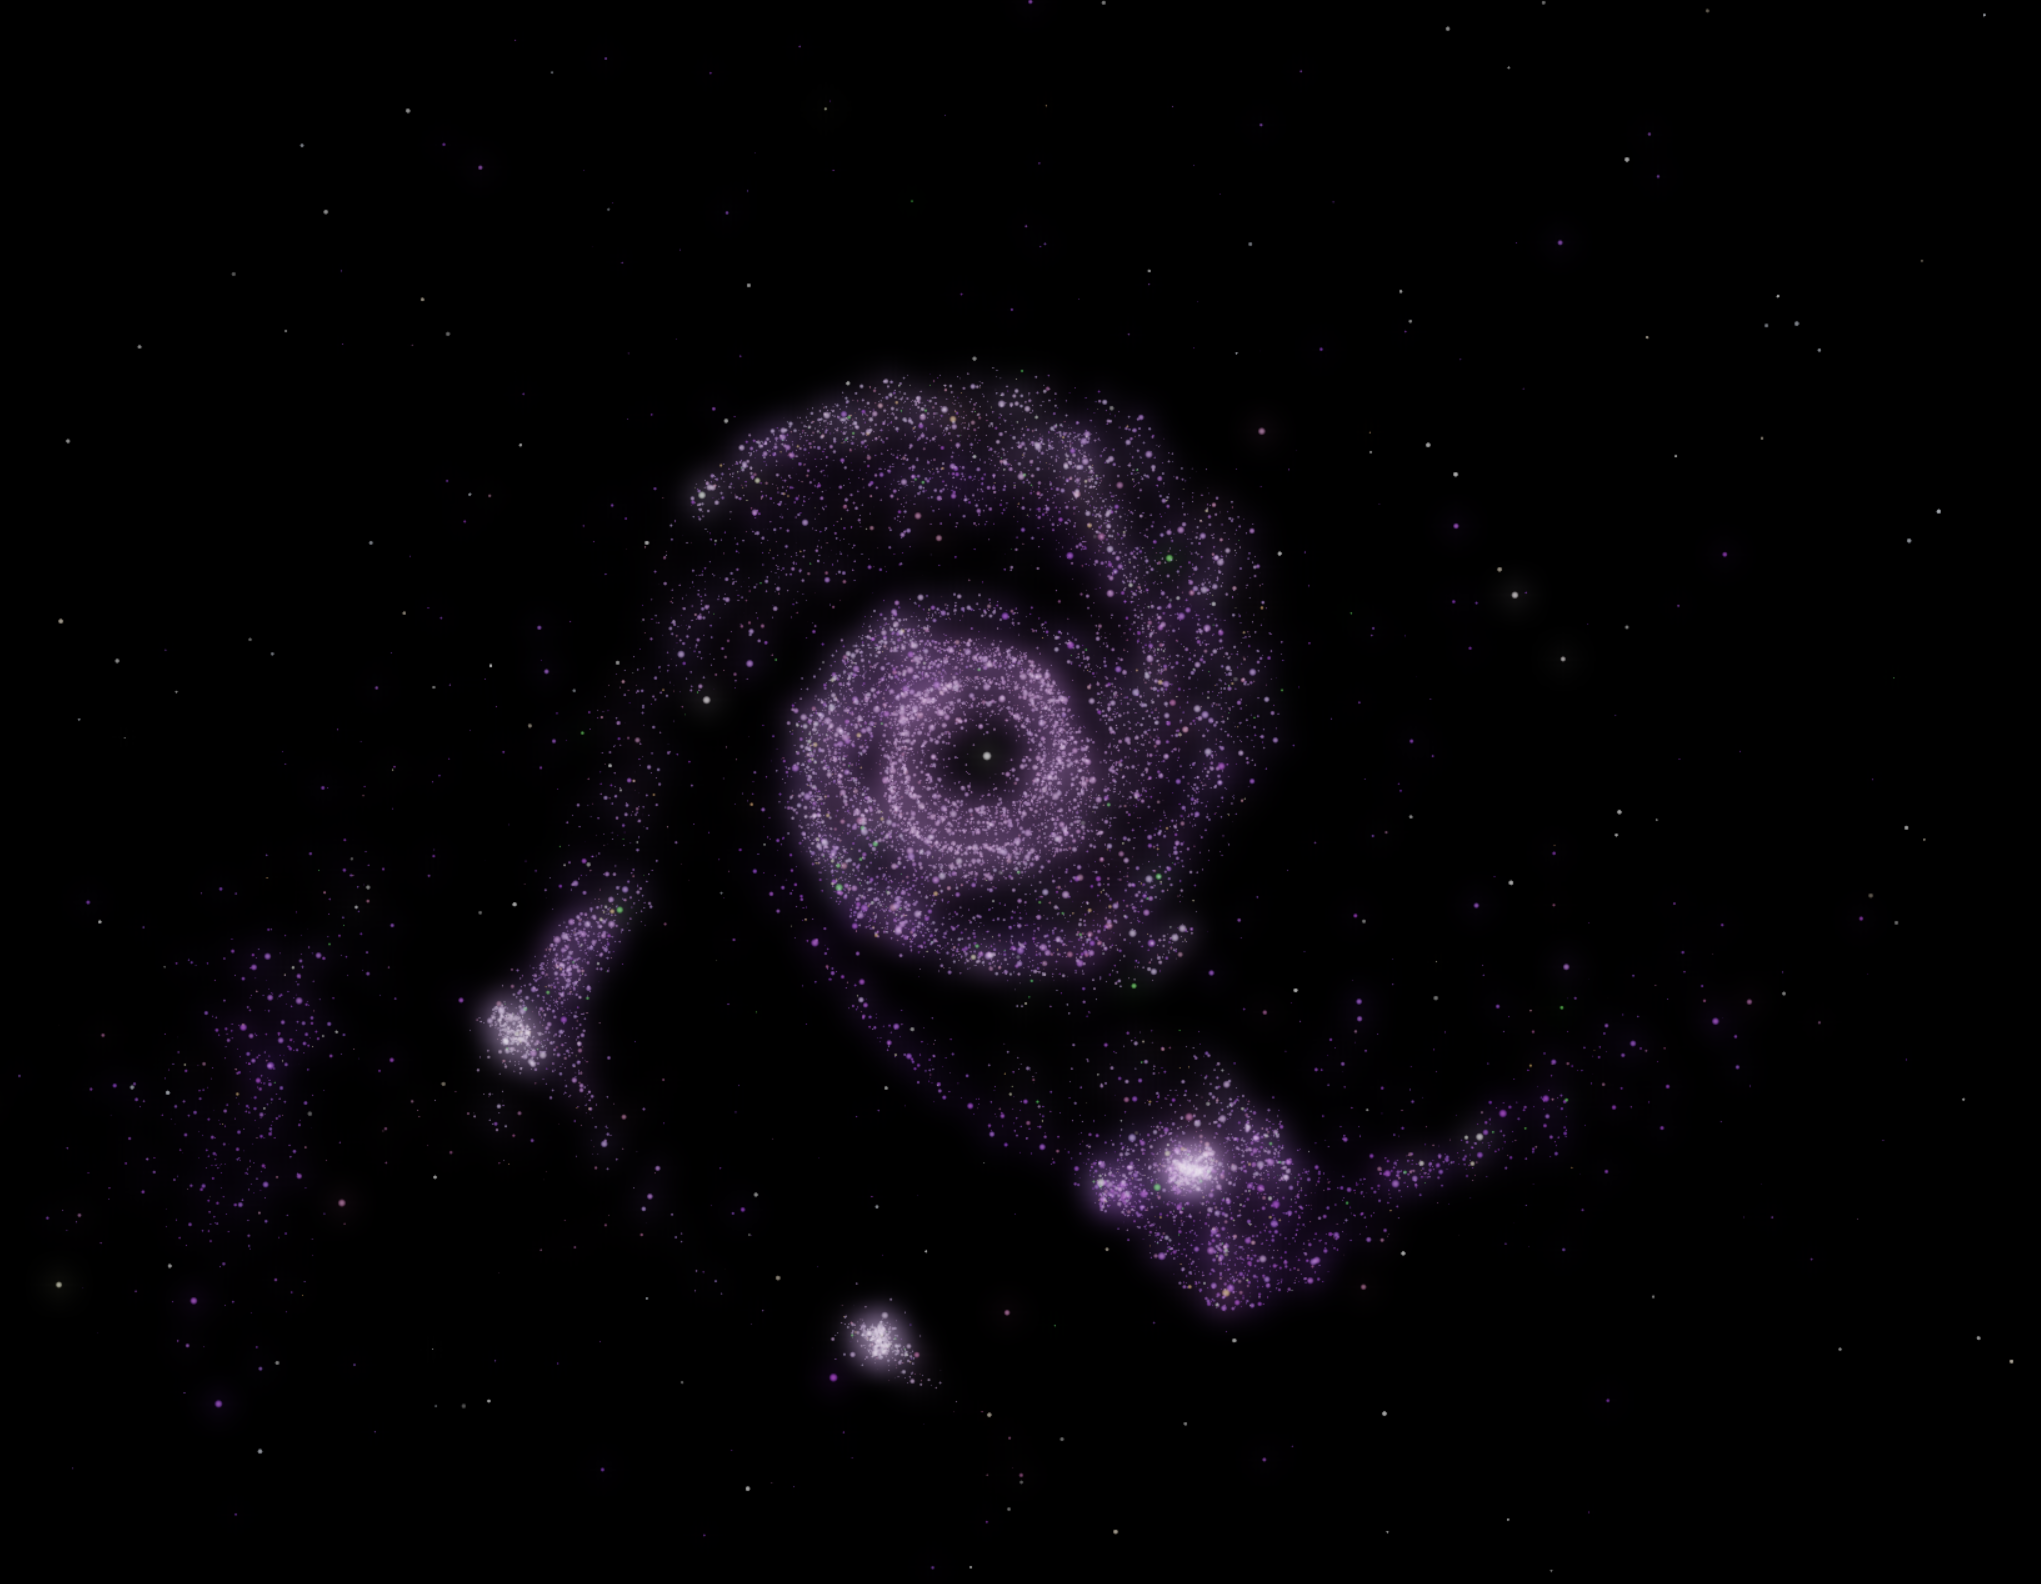
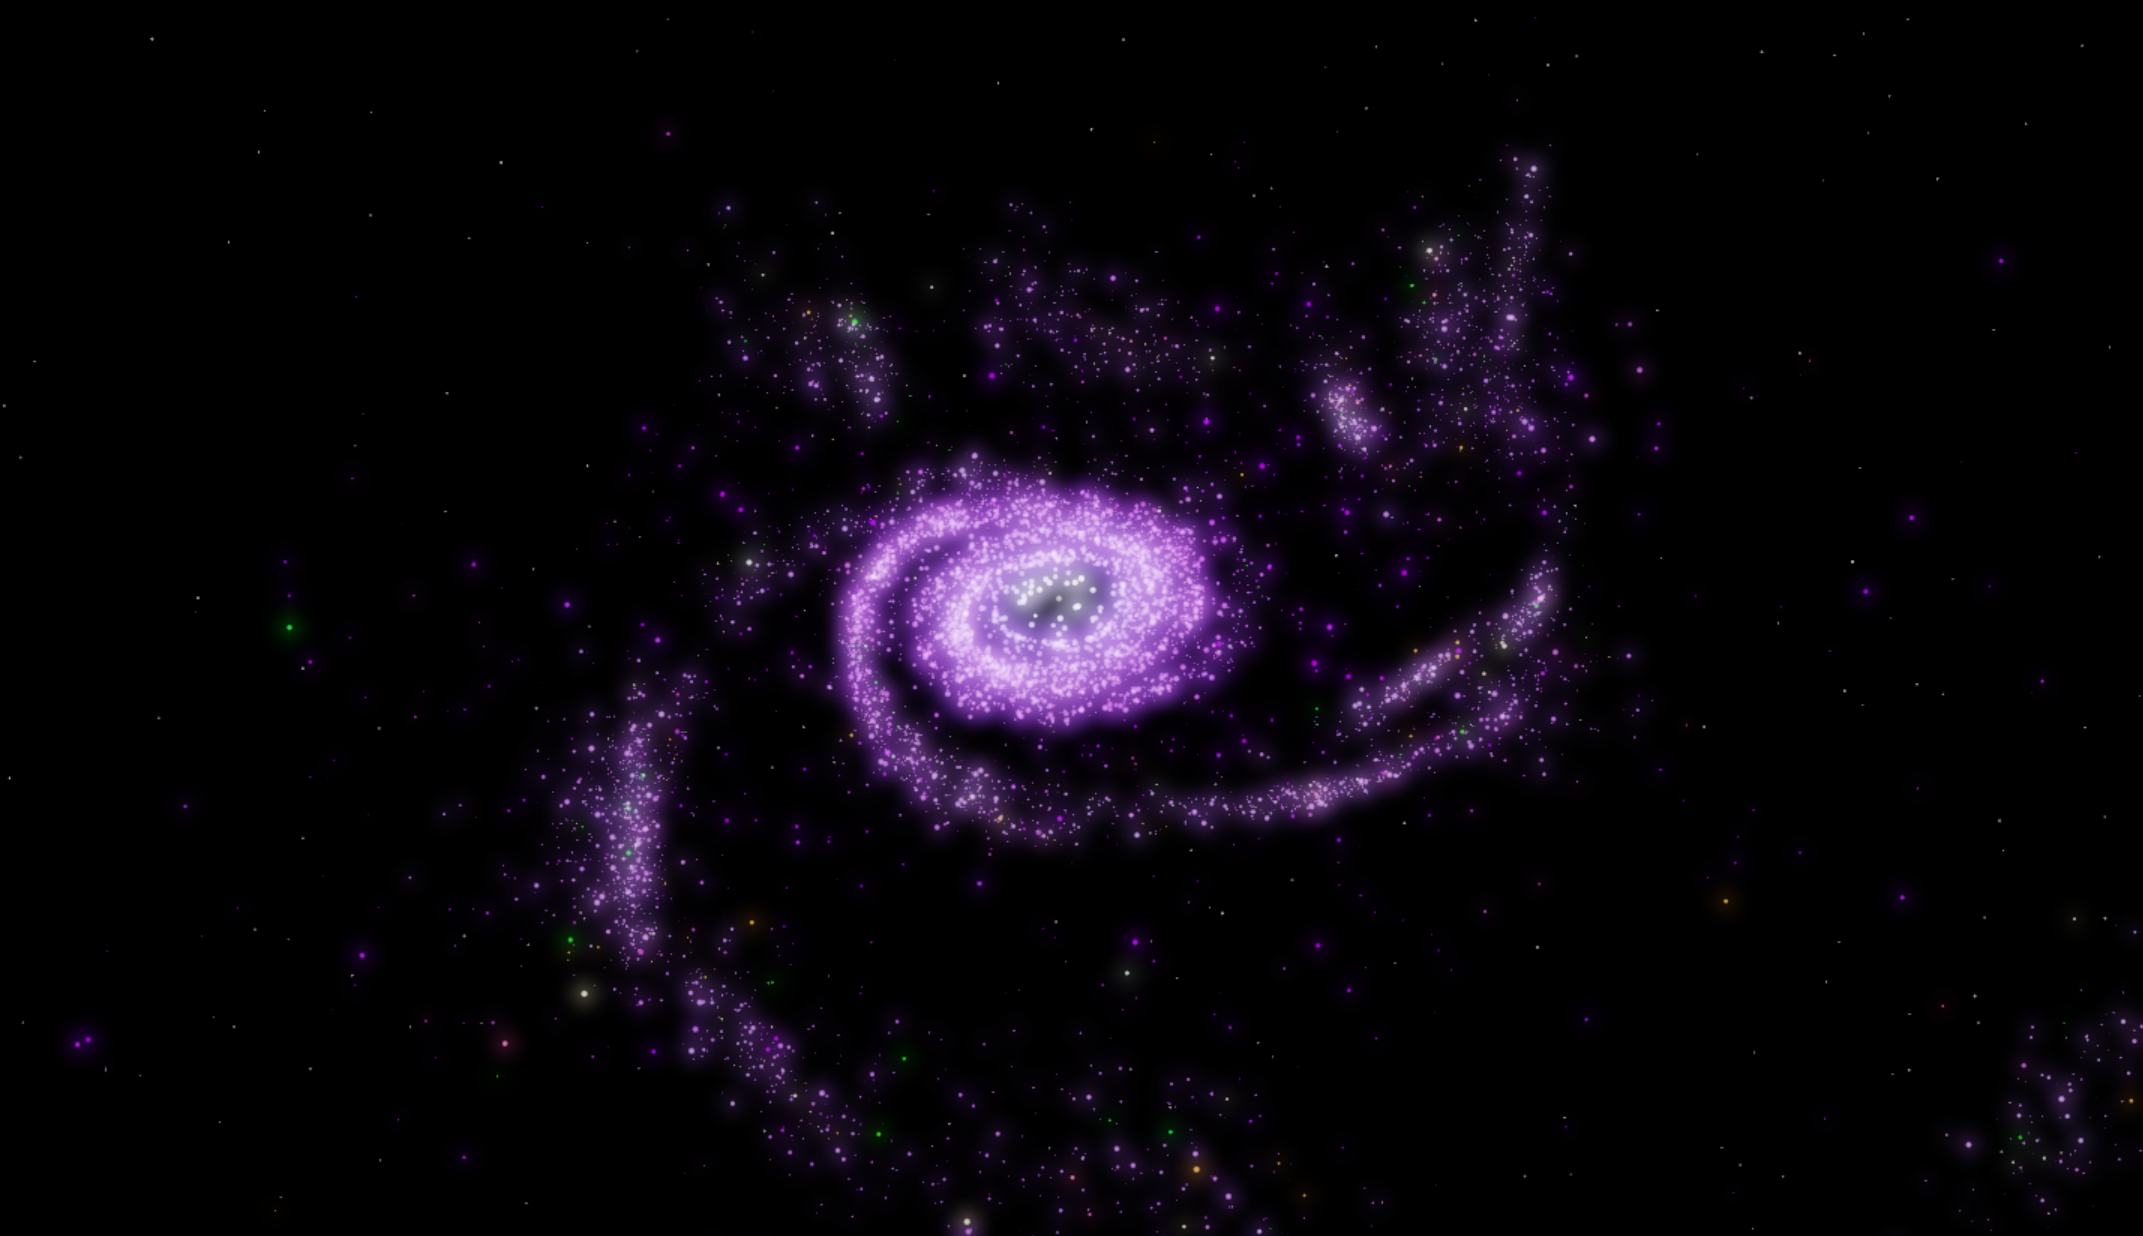
line up descriptions + add galleries

diff --git a/projects/index.html b/projects/index.html
@@ -292,11 +292,13 @@
               <span class="project-tag-featured">featured</span><span class="project-status">live</span>
             </div>
             <h3>Puzzles</h3>
-            <p>A few original problem solving questions/puzzles I've written
+            <p>
+              A few original problem solving questions/puzzles I've written
               with hints and solutions, several are technical interview
               style questions with logical reasoning and or some maths.
               I have publicised some of these online which you can try,
-              and add new ones occasionally.</p>
+              and add new ones occasionally.
+            </p>
             <div class="project-tags">
               <span>Problem Solving</span>
               <span>Maths</span>
@@ -309,12 +311,10 @@
           <a class="project-card-lg" href="chess/">
             <div class="project-status">in progress</div>
             <h3>Chess Platform & Engine</h3>
-            <p>A chess platform and engines written in C++,
-              I will create bots of increasing difficulty
-              as I improve since I am new to chess.
-              This also lets me teach myself C++.
-              Goal: Create an engine at the skill of
-              1600 ELO.</p>
+            <p>
+              A chess platform and engine written in C++, where I build bots of increasing difficulty
+              while teaching myself the language (and chess). Goal: create a bot around 1600 ELO.
+            </p>
             <div class="project-tags">
               <span>C++</span>
               <span>Problem Solving</span>
@@ -328,9 +328,10 @@
           <a class="project-card-lg" href="itm/">
             <div class="project-status">in progress</div>
             <h3>Into The Maze</h3>
-            <p>An indie game dev organisation with me and
-              my friend, where we are actively
-              developing a playable demo for a game in Godot.</p>
+            <p>
+              An indie game dev organisation with me and a friend, actively developing
+              a playable demo for a game in Godot.
+            </p>
             <div class="project-tags">
               <span>Godot</span>
               <span>Game Dev</span>
@@ -361,11 +362,13 @@
           <a class="project-card-lg" href="nbody/">
             <div class="project-status">live</div>
             <h3>N-Body Gravity Simulator</h3>
-            <p>A real-time gravitational simulation of many
+            <p>
+              A real-time gravitational simulation of many
               bodies using Newtonian gravitation.
               A simple and beautiful visualisation,
               mainly done to showcase on the front page
-              of this site.</p>
+              of this site.
+            </p>
             <div class="project-tags">
               <span>JavaScript</span>
               <span>Maths</span>
@@ -379,7 +382,8 @@
           <a class="project-card-lg" href="site/">
             <div class="project-status">live</div>
             <h3>This Website!</h3>
-            <p>This is the website you are currently on.
+            <p>
+              This is the website you are currently on.
               A personal site to showcase some of
               the things I do.
             </p>
@@ -395,9 +399,10 @@
           <a class="project-card-sm" href="poker/">
             <div class="project-status">idea</div>
             <h3>Poker Platform & Bots</h3>
-            <p>Texas Hold'em platform with bots of varying sophistication and strategies.
-               Poker has very high variance so it is difficult to benchmark against myself,
-               but I'd like to see an engine I create predict or fool me and my friends.</p>
+            <p>
+              A Texas Hold'em platform with bots of varying sophistication. Poker's high variance
+              makes it hard to benchmark, but I'd like an engine that can fool me and my friends.
+            </p>
             <div class="project-tags">
               <span>C++</span>
               <span>Problem Solving</span>

diff --git a/projects/mcmods/index.html b/projects/mcmods/index.html
@@ -35,8 +35,12 @@
         <h1>Minecraft Mods</h1>
       </div>
       <p class="project-desc">
-        A small collection of Minecraft mods I've released and actively maintain for fun —
-        around 400k downloads personally, and part of an organisation past 130M total.
+        A small collection of Minecraft mods I have
+        released online and actively maintain,
+        mainly for fun.
+        Personally at 400k downloads.
+        Part of a small organisation with over 130M
+        total downloads.
       </p>
       <a class="project-cta" href="https://modrinth.com/user/Jomlom" target="_blank" rel="noopener">see them here</a>
     </div>

diff --git a/projects/nbody/index.html b/projects/nbody/index.html
@@ -35,8 +35,11 @@
         <h1>N-Body Gravity Simulator</h1>
       </div>
       <p class="project-desc">
-        A real-time gravitational simulation of thousands of bodies on the GPU,
-        where every body pulls on every other under Newton's law to form galactic structures.
+        A real-time gravitational simulation of many
+        bodies using Newtonian gravitation.
+        A simple and beautiful visualisation,
+        mainly done to showcase on the front page
+        of this site.
       </p>
       <a class="project-cta" href="https://jomlom.github.io/N-Body-Gravity-Sim" target="_blank" rel="noopener">try it</a>
     </div>

diff --git a/projects/site/index.html b/projects/site/index.html
@@ -35,7 +35,9 @@
         <h1>This Website</h1>
       </div>
       <p class="project-desc">
-        This is the website you're currently on — a personal site to showcase some of the things I do.
+        This is the website you are currently on.
+        A personal site to showcase some of
+        the things I do.
       </p>
       <a class="project-cta" href="/">to the front page</a>
     </div>
